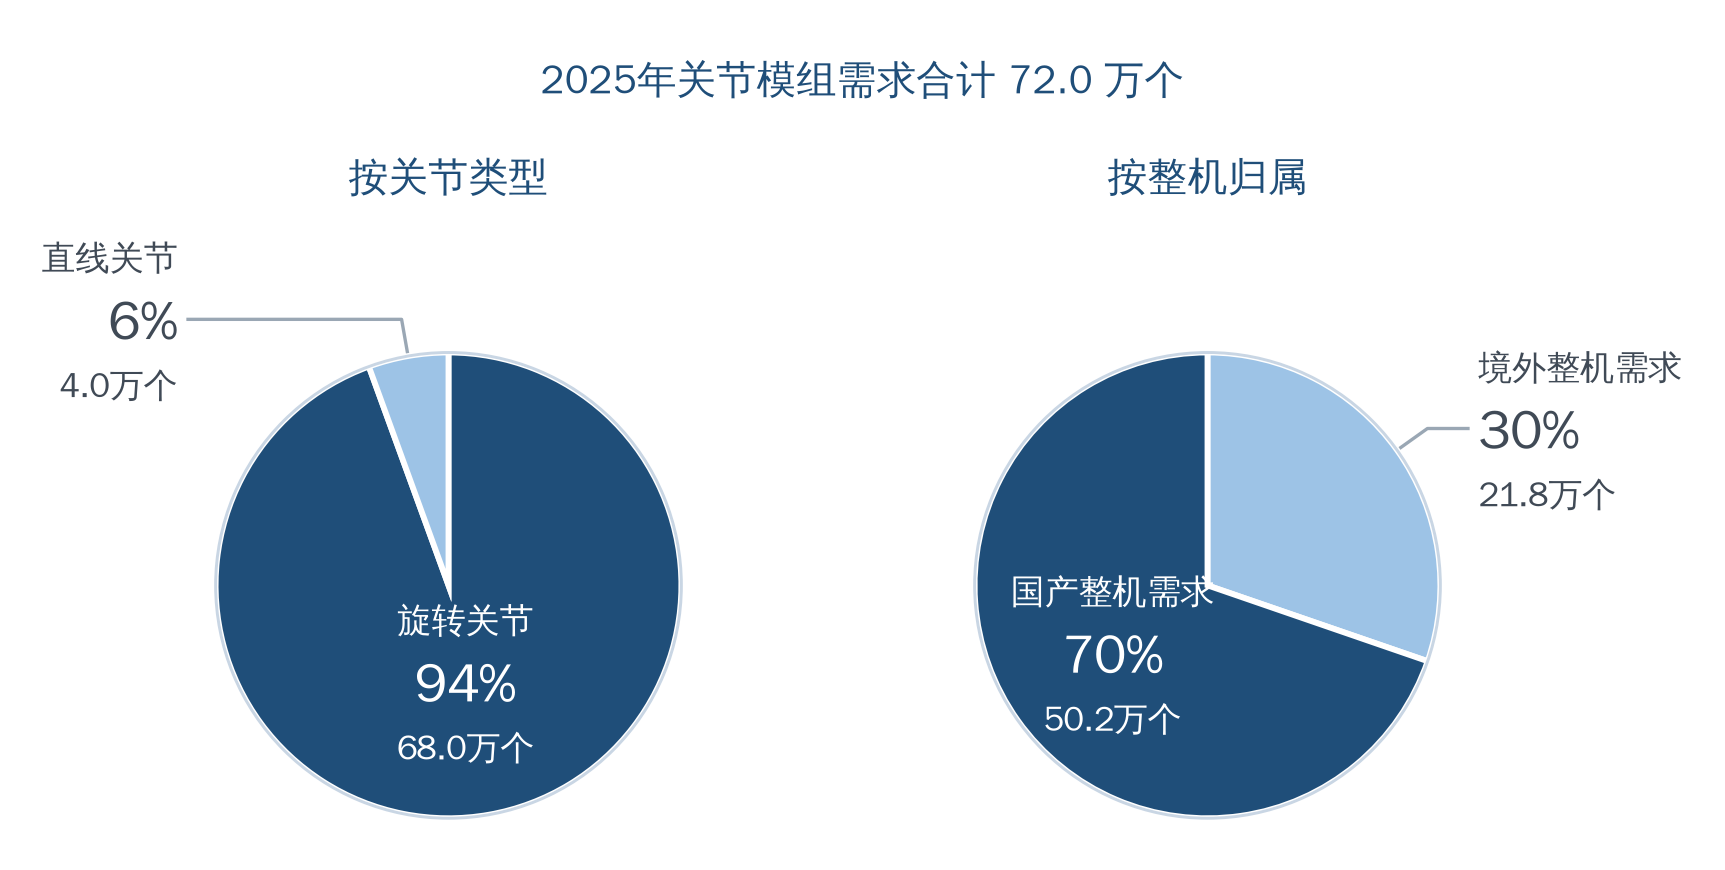
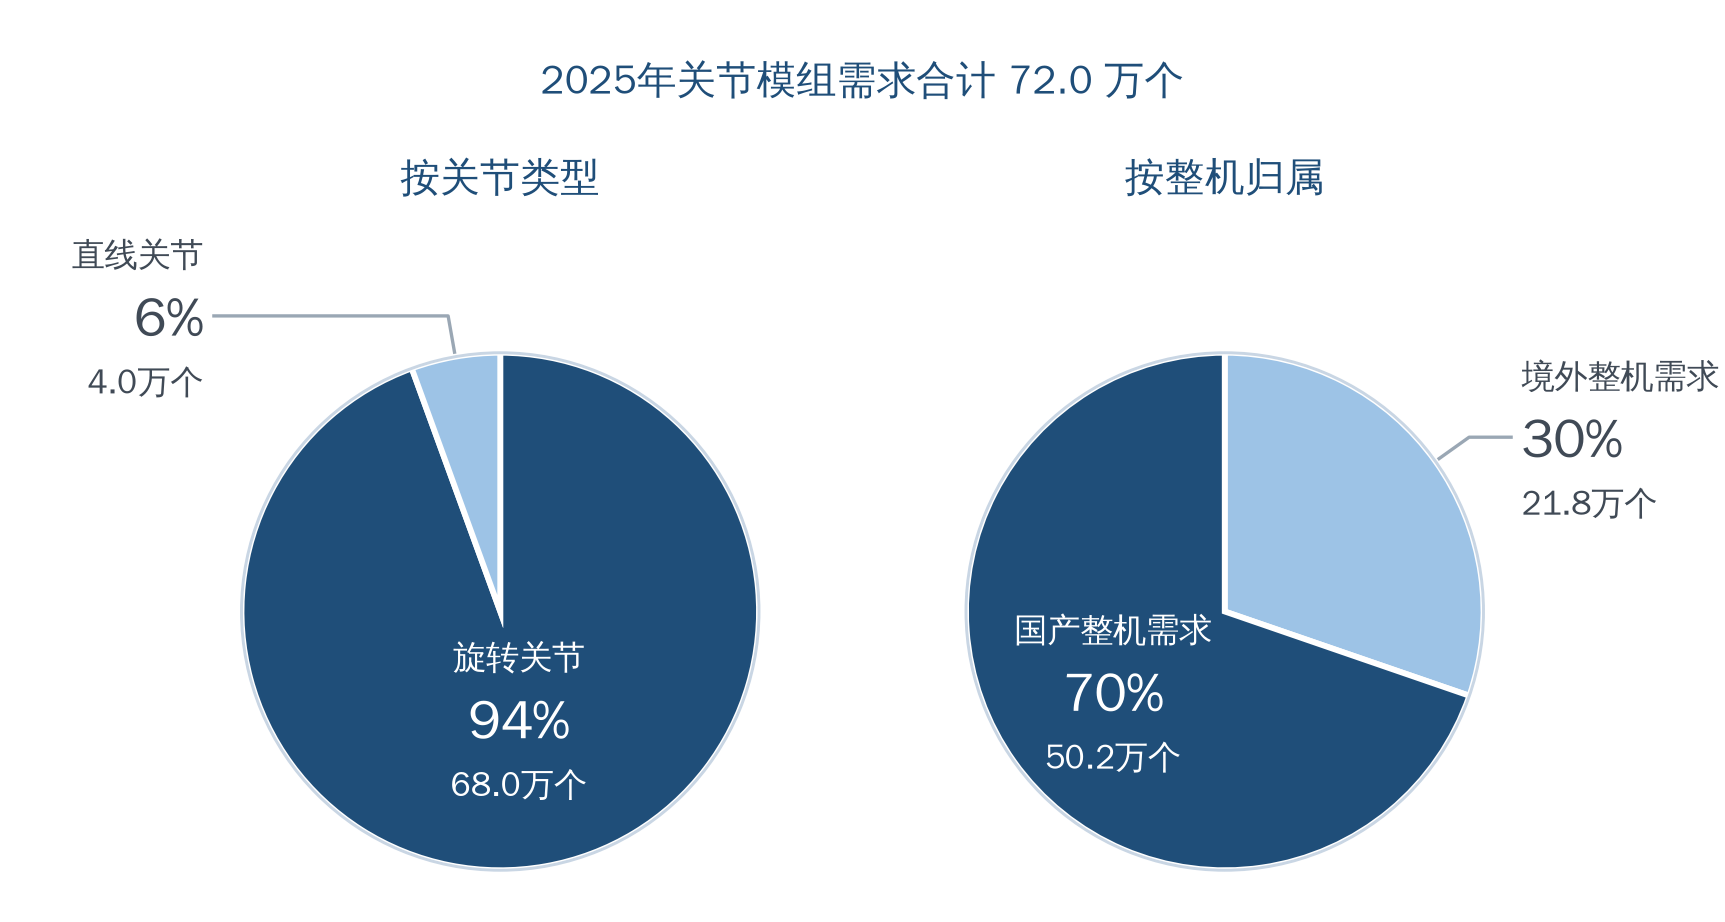
修正饼内标注遮挡
此前仅按文字中心点判定标注是否落在本扇形内，未计字的高度与宽度，
致国产整机需求一行的字顶越过扇形分界、压入浅色扇形。

- 标注沿半径的外移系数改为使名称行整体位于圆心以下，字顶不再越界
- 饼径由 13.5 放至 15.0，使数量行左下角仍在圆内
- 两饼中心相应内收，外挂标注不出画布
- 增加逐行核验：按文字包围盒四角复算极角与半径，越界即报出

数据与口径未动。

Claude-Session: https://claude.ai/code/session_01KToAdpsZr1M7fcYfPsCxFW

diff --git a/output/巨蟹/fig5_alt.py b/output/巨蟹/fig5_alt.py
@@ -221,8 +221,8 @@ ROWS_D = [('按关节类型', [('旋转关节', 68.0, DARK, 'white'),
 
 
 def plan_d(name='fig3_d.png'):
-    FS_T, FS_N, FS_P = 9.5, 8.2, 13.0
-    R = 13.5
+    FS_T, FS_N, FS_P = 9.5, 8.0, 13.0
+    R = 15.0
     H_T = FS_T * 1.5 / PT_U
     PAD = 3.0
     UP = 6.8                                   # 外挂标签高出饼顶的部分
@@ -230,7 +230,7 @@ def plan_d(name='fig3_d.png'):
     fig, ax = _fig(YH)
     ax.set_aspect('equal')
     cy = PAD + R
-    cxs = [26.0, 70.0]
+    cxs = [29.0, 71.0]
 
     y_title = cy + R + UP + 1.6 + H_T / 2
     ax.text(50, y_title + H_T / 2 + 2.2 + H_T / 2,
@@ -256,7 +256,8 @@ def plan_d(name='fig3_d.png'):
                                edgecolor='white', linewidth=1.4, zorder=3))
             mid = math.radians(a0 - ang / 2)
             if ang >= 180:                     # 过半圆，标注置于扇形内
-                k = 0.42 if ang >= 300 else 0.50
+                # 0.53 使名称行整体落在圆心之下，字顶不致越过分界
+                k = 0.42 if ang >= 300 else 0.53
                 stack(cx + k * R * math.cos(mid),
                       cy + k * R * math.sin(mid), nm, v, tc)
             else:                              # 其余引线挑出至饼外
